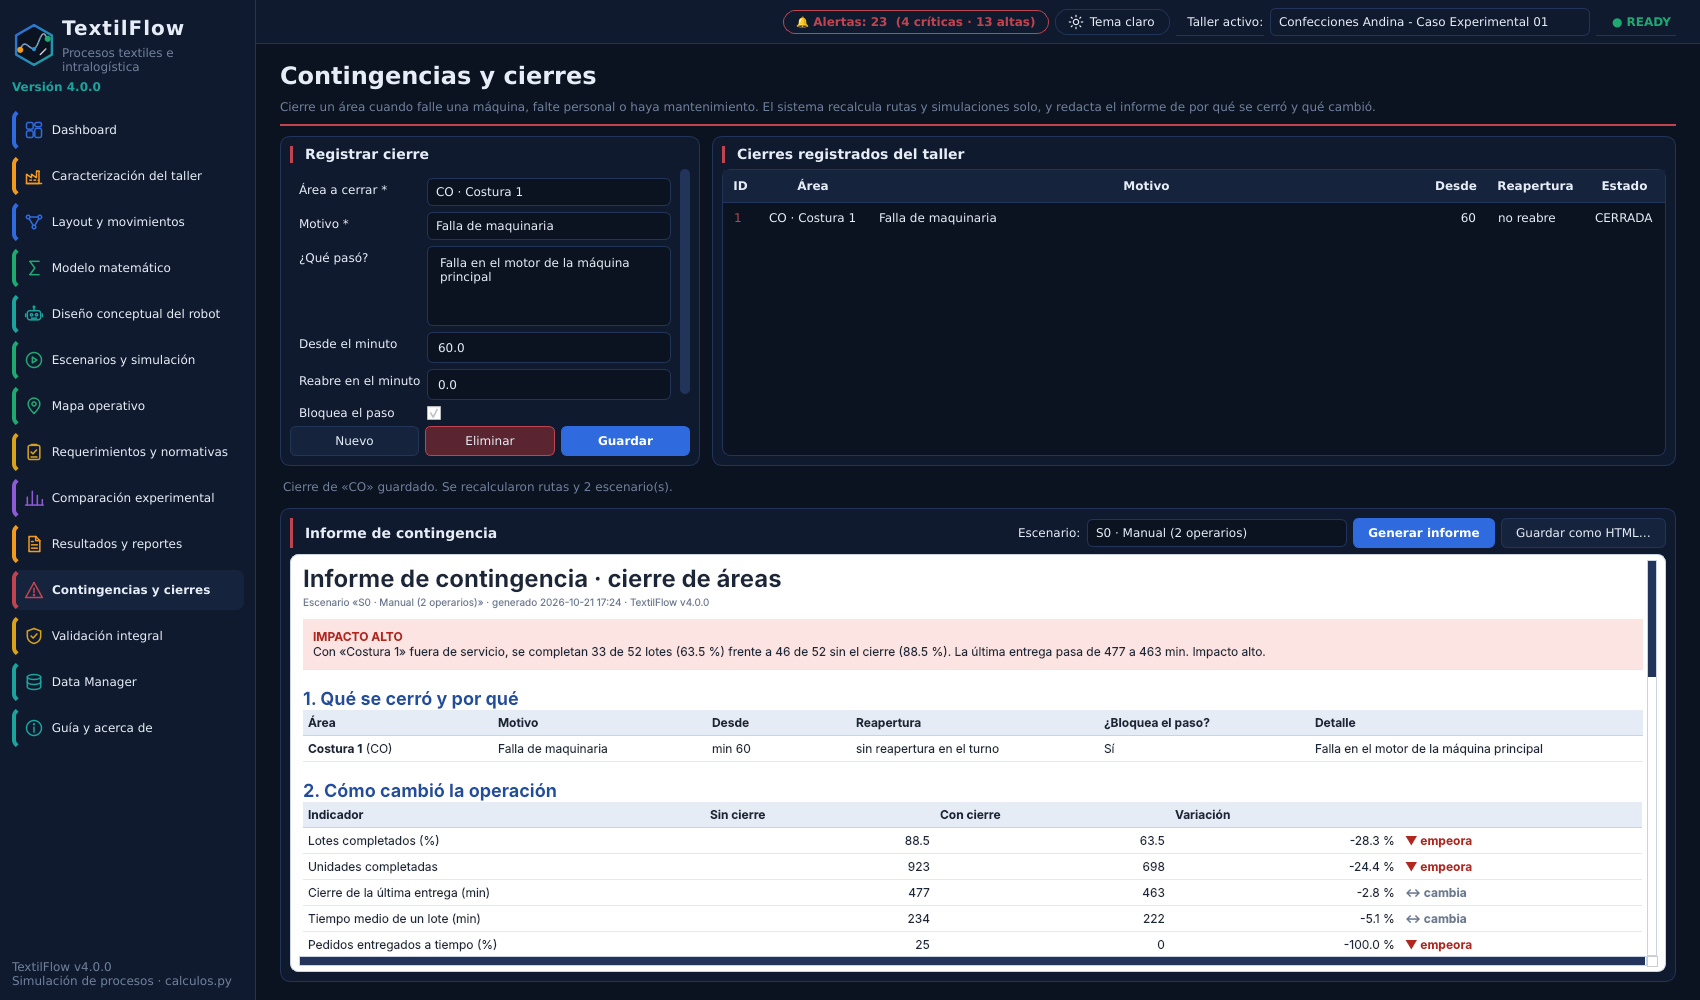
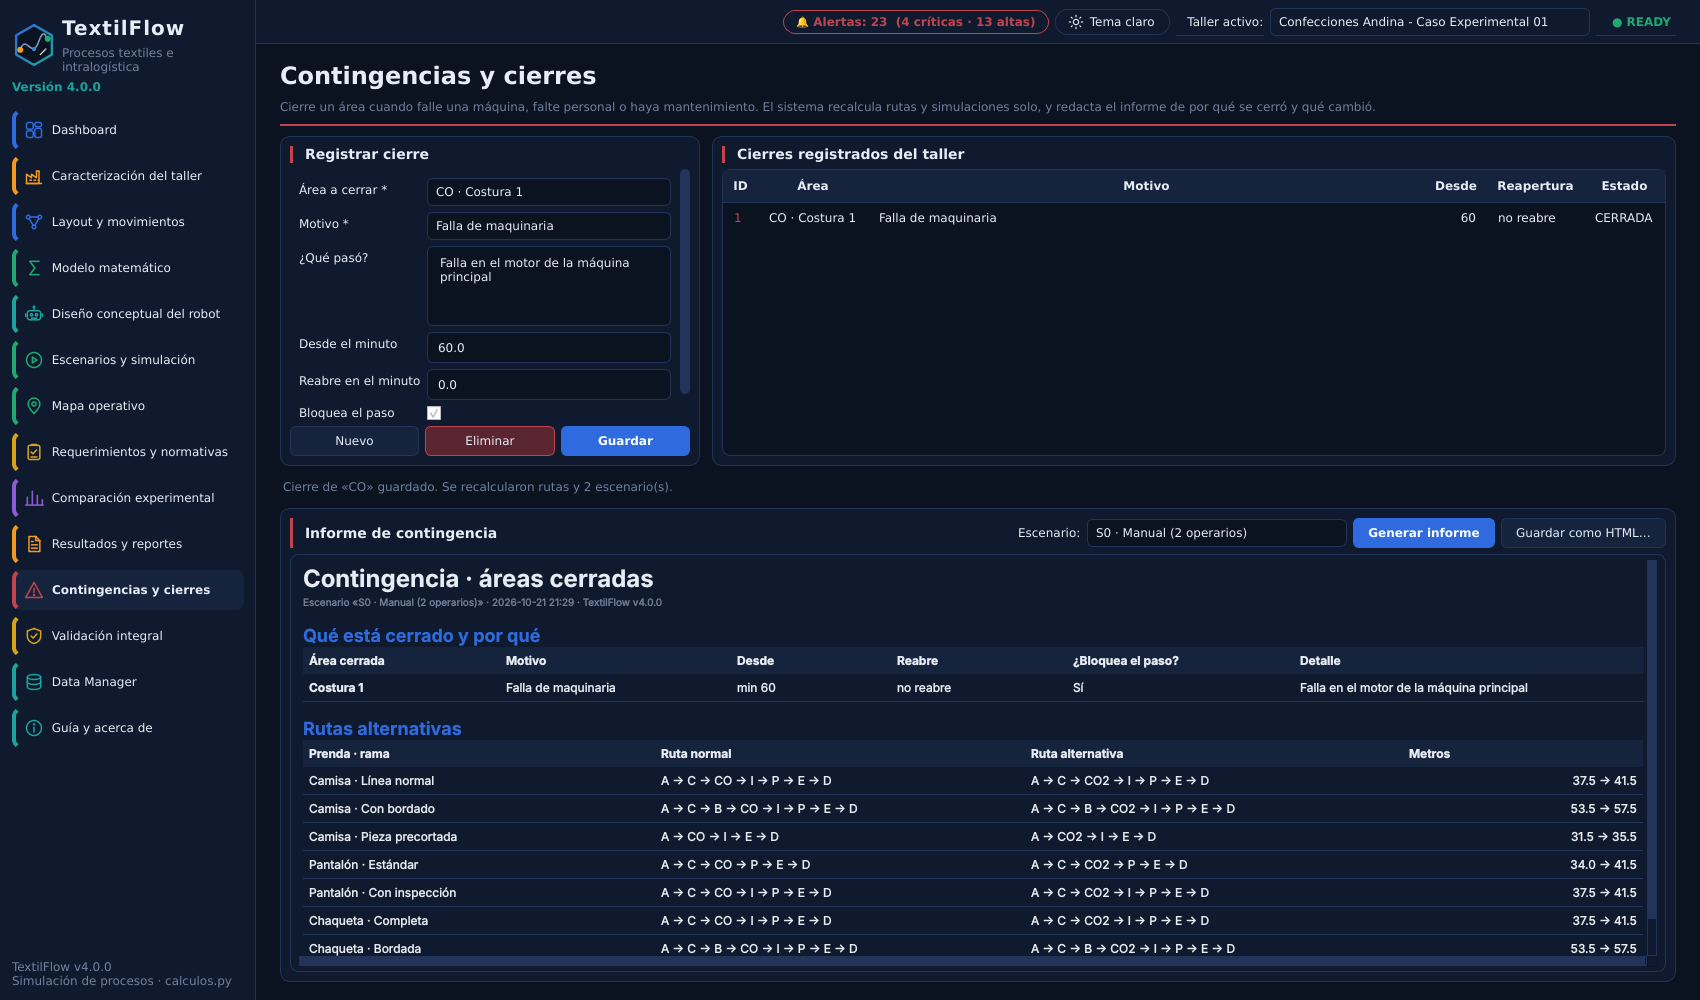
4.0.0 (revisión): ajustes a contingencias y al informe
Segunda entrega de la 4.0.0 (21/10/2026, 21:29). Mantiene el número de versión.

- Ajustes en informe_html.py, en la página de contingencias y en el arranque
  de la aplicación (app.py y main_window.py).
- Se actualizan las pruebas y la captura de contingencias.
- 75 pruebas automáticas.

Claude-Session: https://claude.ai/code/session_01UpjNSCa3fSSFN9gatWzEN4

diff --git a/textilflow/application/informe_html.py b/textilflow/application/informe_html.py
@@ -2,86 +2,45 @@ from html import escape
 
 from ..version import NOMBRE, VERSION
 
-_NIVEL = {"ALTO": ("#B3261E", "#FBE4E2"), "MEDIO": ("#B26A00", "#FFF0D6"), "BAJO": ("#1B7A57", "#DFF3EA")}
-_ESTADO = {"mejora": ("#1B7A57", "▲ mejora"), "empeora": ("#B3261E", "▼ empeora"),
-           "igual": ("#6B7A90", "= igual"), "cambia": ("#6B7A90", "↔ cambia")}
+CLARO = dict(fondo="#FFFFFF", texto="#1B2638", tenue="#6B7A90", borde="#C9D3E4", cabecera="#E6ECF6",
+             acento="#1F55C4", alerta="#B3261E")
 
 
-def _n(v, dec=0):
+def _n(v, dec=1):
     return "—" if v is None else f"{v:,.{dec}f}"
 
 
-def _tabla(encabezados, filas, alinear_der=()):
-    cab = "".join(f"<th>{escape(h)}</th>" for h in encabezados)
+def _tabla(p, encabezados, filas, derecha=()):
+    cab = "".join(f'<th align="left" bgcolor="{p["cabecera"]}">{escape(h)}</th>' for h in encabezados)
     cuerpo = ""
     for fila in filas:
-        celdas = "".join(
-            f'<td align="{"right" if i in alinear_der else "left"}">{c}</td>' for i, c in enumerate(fila))
+        celdas = "".join(f'<td align="{"right" if i in derecha else "left"}">{c}</td>' for i, c in enumerate(fila))
         cuerpo += f"<tr>{celdas}</tr>"
-    return f'<table width="100%" cellspacing="0" cellpadding="5"><tr>{cab}</tr>{cuerpo}</table>'
+    return f'<table width="100%" cellspacing="0" cellpadding="6"><tr>{cab}</tr>{cuerpo}</table>'
 
 
-def informe_a_html(inf) -> str:
-    color, fondo = _NIVEL[inf.nivel]
-    cierres = _tabla(
-        ["Área", "Motivo", "Desde", "Reapertura", "¿Bloquea el paso?", "Detalle"],
-        [[f"<b>{escape(c['nombre'])}</b> ({escape(c['codigo'])})", escape(c["motivo"]), f"min {c['desde']:g}",
-          f"min {c['hasta']:g}" if c["hasta"] else "sin reapertura en el turno",
-          "Sí" if c["bloquea_paso"] else "No, solo no procesa", escape(c["detalle"] or "—")] for c in inf.cierres])
-
-    filas = []
-    for nombre, a, b, v, estado, dec in inf.indicadores:
-        col, txt = _ESTADO[estado]
-        var = "—" if v is None else f"{v:+.1f} %"
-        filas.append([escape(nombre), _n(a, dec), _n(b, dec), var, f'<span style="color:{col}"><b>{txt}</b></span>'])
-    indicadores = _tabla(["Indicador", "Sin cierre", "Con cierre", "Variación", ""], filas, (1, 2, 3))
-
-    reas = ""
-    if inf.reasignaciones:
-        reas = ("<h3>¿A dónde se fue el trabajo?</h3>" + _tabla(
-            ["Grupo", "Área", "Lotes antes", "Lotes ahora", "Unidades antes", "Unidades ahora"],
-            [[escape(g), escape(a) + (' <span style="color:#B3261E">(cerrada)</span>' if cerr else ""),
-              str(l0), str(l1), str(u0), str(u1)] for g, a, l0, l1, u0, u1, cerr in inf.reasignaciones],
-            (2, 3, 4, 5)))
+def informe_a_html(inf, p: dict = CLARO) -> str:
+    cierres = _tabla(p, ["Área cerrada", "Motivo", "Desde", "Reabre", "¿Bloquea el paso?", "Detalle"],
+        [[f"<b>{escape(c['nombre'])}</b>", escape(c["motivo"]), f"min {c['desde']:g}",
+          f"min {c['hasta']:g}" if c["hasta"] else "no reabre",
+          "Sí" if c["bloquea_paso"] else "No", escape(c["detalle"] or "—")] for c in inf.cierres])
 
     if inf.rutas:
-        rutas = ("<h3>Rutas recalculadas</h3>" + _tabla(
-            ["Prenda", "Rama", "Ruta anterior", "Ruta nueva", "Metros antes", "Metros ahora"],
-            [[escape(p), escape(r), escape(a), (escape(b) if ok else f'<b style="color:#B3261E">{escape(b)}</b>'),
-              _n(d0, 1), _n(d1, 1)] for p, r, a, b, d0, d1, ok in inf.rutas], (4, 5)))
+        rutas = _tabla(p, ["Prenda · rama", "Ruta normal", "Ruta alternativa", "Metros"],
+            [[escape(f"{pr} · {r}"), escape(a),
+              escape(b) if ok else f'<b style="color:{p["alerta"]}">{escape(b)}</b>',
+              f"{_n(d0)} → {_n(d1)}" if ok else "—"] for pr, r, a, b, d0, d1, ok in inf.rutas], (3,))
     else:
-        rutas = "<h3>Rutas recalculadas</h3><p>Ninguna ruta tuvo que cambiar.</p>"
-
-    afect = ""
-    if inf.afectados:
-        afect = _tabla(
-            ["Prenda", "Pedido", "Estado", "Por qué", "Lotes", "Unidades"],
-            [[escape(p), f"#{pid}", escape(est), escape(mot or "—"), str(n), str(u)]
-             for p, pid, est, mot, n, u in inf.afectados[:25]], (4, 5))
-
-    nuevas = ""
-    if inf.alertas_nuevas:
-        nuevas = "<h3>Alertas nuevas por este cierre</h3><ul>" + "".join(
-            f"<li><b>{escape(a.nivel)}</b> · {escape(a.titulo)}</li>" for a in inf.alertas_nuevas[:12]) + "</ul>"
-
-    recs = "".join(f"<li>{escape(r)}</li>" for r in inf.recomendaciones)
+        rutas = "<p>Ninguna ruta tuvo que cambiar.</p>"
 
     return f"""<html><head><style>
-body {{ font-family: 'Segoe UI', 'Noto Sans', sans-serif; color:#1B2638; background:#FFFFFF; }}
-h1 {{ font-size:20px; margin-bottom:0; }} h2 {{ font-size:15px; margin-top:18px; color:#1F4E9E; }}
-h3 {{ font-size:13px; margin-top:16px; color:#1F4E9E; }}
-th {{ background:#E6ECF6; text-align:left; border-bottom:1px solid #C9D3E4; }}
-td {{ border-bottom:1px solid #E3E8F1; }} small {{ color:#6B7A90; }}
+body {{ font-family: 'Segoe UI', 'Noto Sans', sans-serif; color:{p['texto']}; background:{p['fondo']}; }}
+h1 {{ font-size:19px; margin-bottom:0; }} h2 {{ font-size:14px; margin-top:16px; color:{p['acento']}; }}
+td {{ border-bottom:1px solid {p['borde']}; color:{p['texto']}; }} th {{ color:{p['texto']}; }}
+small {{ color:{p['tenue']}; }}
 </style></head><body>
-<h1>Informe de contingencia · cierre de áreas</h1>
-<small>Escenario «{escape(inf.escenario.nombre)}» · generado {escape(inf.generado)} · {NOMBRE} v{VERSION}</small>
-<table width="100%" cellpadding="10" cellspacing="0" style="margin-top:10px"><tr>
-<td bgcolor="{fondo}"><b style="color:{color}">IMPACTO {inf.nivel}</b><br>{escape(inf.resumen)}</td></tr></table>
-<h2>1. Qué se cerró y por qué</h2>{cierres}
-<h2>2. Cómo cambió la operación</h2>{indicadores}
-<p><small>«Sin cierre» y «Con cierre» usan el mismo escenario, los mismos pedidos y la misma semilla; solo cambia el cierre.
-Cuando se completan menos lotes, que baje el tiempo o la distancia no es una mejora real: se hace menos trabajo.</small></p>
-<h2>3. Qué hizo el sistema</h2>{reas}{rutas}
-<h2>4. Qué quedó afectado</h2>{afect or "<p>No quedó trabajo sin terminar.</p>"}{nuevas}
-<h2>5. Qué se recomienda</h2><ul>{recs}</ul>
+<h1>Contingencia · áreas cerradas</h1>
+<small>Escenario «{escape(inf.escenario.nombre)}» · {escape(inf.generado)} · {NOMBRE} v{VERSION}</small>
+<h2>Qué está cerrado y por qué</h2>{cierres}
+<h2>Rutas alternativas</h2>{rutas}
 </body></html>"""

diff --git a/textilflow/presentation/app.py b/textilflow/presentation/app.py
@@ -39,7 +39,7 @@ POLITICAS_OPC = list(POLITICAS.items())
 
 
 class AplicacionController:
-    def __init__(self, c: Container):
+    def __init__(self, c: Container, ventana=None):
         self.ctx = AppContext()
         self._c = c
         v = {
@@ -84,7 +84,13 @@ class AplicacionController:
             ("Guía y acerca de", theme.TURQUESA, v["guia"]),
         ]
         self._indice_req = [n for n, *_ in paginas].index("Requerimientos y normativas")
-        self.ventana = MainWindow(paginas)
+        if ventana is None:
+            self.ventana = MainWindow(paginas)
+        else:
+            for senal in (ventana.pagina_cambiada, ventana.taller_elegido, ventana.alertas_solicitadas, ventana.tema_solicitado):
+                senal.disconnect()
+            ventana.armar(paginas)
+            self.ventana = ventana
         self.ventana.pagina_cambiada.connect(self._pagina_cambio)
         self.ventana.taller_elegido.connect(self.ctx.activar)
         self.ventana.alertas_solicitadas.connect(lambda: self.ventana.ir_a(self._indice_req))
@@ -136,25 +142,20 @@ class Aplicacion:
         theme.aplicar(str(self._ajustes.value("tema", "oscuro")))
         self.controlador = None
         self._montar()
+        self.controlador.ventana.show()
 
-    def _montar(self, taller_id=None, pagina: int = 0, geometria=None) -> None:
+    def _montar(self, taller_id=None, pagina: int = 0, ventana=None) -> None:
         self._qapp.setStyleSheet(theme.hoja_de_estilo())
-        self.controlador = AplicacionController(self._c)
+        self.controlador = AplicacionController(self._c, ventana)
         v = self.controlador.ventana
         v.tema_solicitado.connect(self.alternar_tema)
         self.controlador.iniciar(taller_id)
         if pagina:
             v.ir_a(pagina)
-        if geometria is not None:
-            v.setGeometry(geometria)
-        v.show()
 
     def alternar_tema(self) -> None:
         viejo = self.controlador
-        taller, pagina, geom = viejo.ctx.taller_id, viejo.ventana.pagina_actual(), viejo.ventana.geometry()
         nuevo = "claro" if theme.tema_actual() == "oscuro" else "oscuro"
         self._ajustes.setValue("tema", nuevo)
         theme.aplicar(nuevo)
-        viejo.ventana.hide()
-        viejo.ventana.deleteLater()
-        self._montar(taller, pagina, geom)
+        self._montar(viejo.ctx.taller_id, viejo.ventana.pagina_actual(), viejo.ventana)

diff --git a/textilflow/presentation/controllers/contingencias_controller.py b/textilflow/presentation/controllers/contingencias_controller.py
@@ -2,8 +2,14 @@ from pathlib import Path
 
 from ...application.informe_html import informe_a_html
 from ...domain.entities import MOTIVOS_CIERRE, Cierre
+from .. import theme
 from ..theme import ROJO, TENUE, fmt
 from .base import Controlador, etiqueta_estacion
+
+
+def paleta() -> dict:
+    return dict(fondo=theme.PANEL, texto=theme.TEXTO, tenue=theme.TENUE, borde=theme.BORDE, cabecera=theme.PANEL_2,
+                acento=theme.AZUL, alerta=theme.ROJO)
 
 
 class ContingenciasController(Controlador):
@@ -83,9 +89,9 @@ class ContingenciasController(Controlador):
             if not silencioso:
                 self.vista.error(str(e))
             else:
-                self.vista.navegador.setHtml(f"<p style='color:#6B7A90'>{e}</p>")
+                self.vista.navegador.setHtml(f"<p style='color:{theme.TENUE}'>{e}</p>")
             return
-        self._html = informe_a_html(inf)
+        self._html = informe_a_html(inf, paleta())
         self.vista.mostrar_informe(self._html)
 
     def _exportar(self, ruta: str) -> None:

diff --git a/tests/test_ui.py b/tests/test_ui.py
@@ -216,7 +216,7 @@ def test_contingencias_cerrar_recalcula_y_genera_informe(ui):
     p.btn_guardar.click()
     assert not ui.errores
     assert p.tabla.rowCount() == 1
-    assert "IMPACTO" in c.vista.navegador.toPlainText()
+    assert "Ruta alternativa" in c.vista.navegador.toPlainText()
     assert "CO" in ui.ctx.cerrados()
     nodos, _ = __import__("textilflow.presentation.controllers.base", fromlist=["x"]).construir_red(
         ui.c.layout, ui.ctx.taller_id, cerrados=ui.ctx.cerrados())
@@ -244,7 +244,9 @@ def test_cambio_de_tema_reconstruye_la_ventana(qapp):
     c.demo.execute()
     ap = Aplicacion(c, qapp)
     theme.aplicar("oscuro")
+    ventana = ap.controlador.ventana
     ap.alternar_tema()
+    assert ap.controlador.ventana is ventana
     assert theme.tema_actual() == "claro" and theme.BG == "#F1F4FA"
     assert ap.controlador.ventana.btn_tema.text().strip() == "Tema oscuro"
     ap.alternar_tema()

diff --git a/textilflow/presentation/views/contingencias_view.py b/textilflow/presentation/views/contingencias_view.py
@@ -54,8 +54,8 @@ class ContingenciasView(PageView):
         fila.addWidget(self.btn_exportar)
         cl.addLayout(fila)
         self.navegador = QTextBrowser()
-        self.navegador.setStyleSheet("background: #FFFFFF; border: 1px solid #C9D3E4; border-radius: 8px;")
-        self.navegador.setHtml("<p style='color:#6B7A90'>Registre un cierre y el informe aparece aquí.</p>")
+        self.navegador.setStyleSheet(f"background: {theme.PANEL}; border: 1px solid {theme.BORDE}; border-radius: 8px;")
+        self.navegador.setHtml(f"<p style='color:{theme.TENUE}'>Registre un cierre y el informe aparece aquí.</p>")
         cl.addWidget(self.navegador, 1)
         self.cuerpo.addWidget(caja, 1)
 

diff --git a/tests/test_casos_de_uso.py b/tests/test_casos_de_uso.py
@@ -386,6 +386,7 @@ def test_informe_de_cierre(demo):
     inf = app.informe_cierres.execute(esc.id)
     assert inf.nivel in ("ALTO", "MEDIO", "BAJO") and inf.rutas and inf.recomendaciones
     assert any(r[0] == "COSTURA" for r in inf.reasignaciones)
+    assert "Ruta alternativa" in informe_a_html(inf)
     html = informe_a_html(inf)
     assert "Falla de maquinaria" in html and "Se quemó el motor" in html and "CO2" in html
 

diff --git a/textilflow/presentation/main_window.py b/textilflow/presentation/main_window.py
@@ -23,6 +23,9 @@ class MainWindow(QMainWindow):
         self.setWindowTitle(f"{NOMBRE} v{VERSION} · Optimización de procesos industriales e intralogística")
         self.setWindowIcon(logo_icono())
         self.resize(1360, 840)
+        self.armar(paginas)
+
+    def armar(self, paginas: Sequence[tuple]) -> None:
         raiz = QWidget()
         raiz.setObjectName("raiz")
         self.setCentralWidget(raiz)
